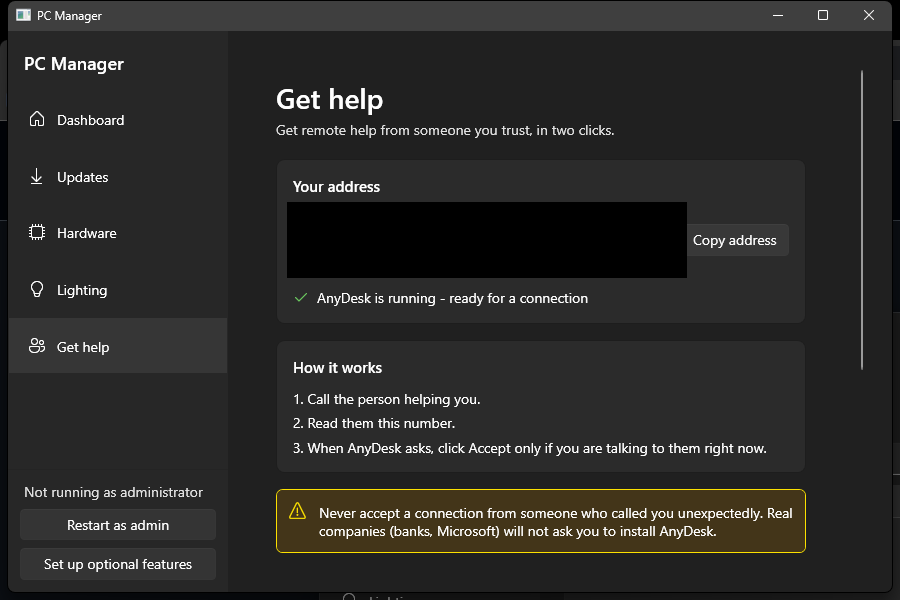
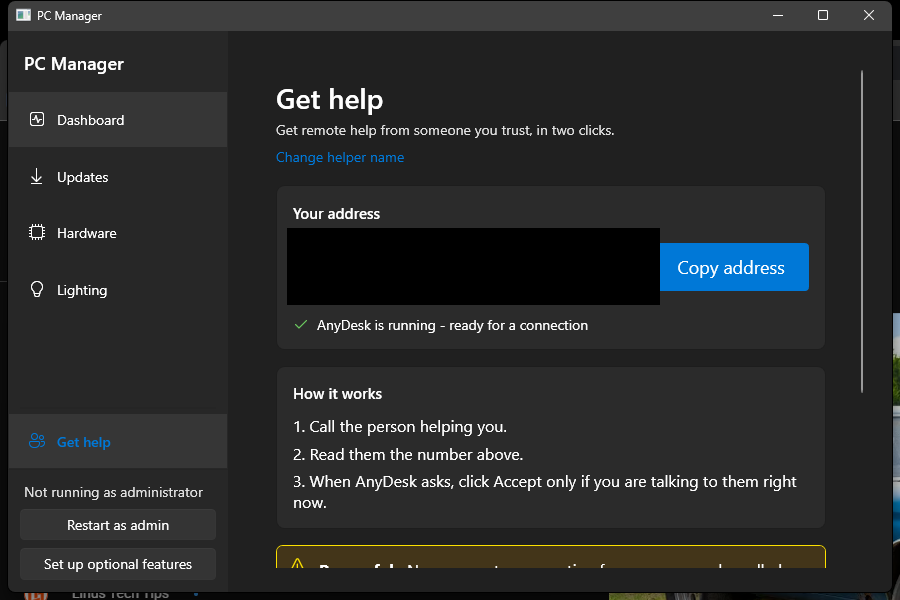
fix(remote-support): use a resolving accent brush for primary actions
AccentFillColorDefaultBrush/AccentTextFillColorPrimaryBrush do not resolve
under this app's built-in WPF Fluent theme (ThemeMode.System), so the "Copy
address" button, the pinned "Get help" nav item and the helper-name dialog's
OK button were silently falling back to plain gray instead of standing out
as the primary action - confirmed by pixel-sampling a live screenshot.
Switches to {x:Static SystemColors.HighlightBrushKey}, which reliably
resolves to the user's Windows accent color, and re-verifies live (see the
updated, redacted docs/screenshots/get-help.png).

diff --git a/src/PCManager.App/Features/RemoteSupport/RemoteSupportView.xaml b/src/PCManager.App/Features/RemoteSupport/RemoteSupportView.xaml
@@ -19,7 +19,7 @@
                            Visibility="{Binding HasHelperName, Converter={StaticResource BoolToVis}}"/>
                 <Button Content="Change helper name" Click="ChangeHelperNameButton_Click"
                         BorderThickness="0" Background="Transparent" Padding="0" Cursor="Hand"
-                        Foreground="{DynamicResource AccentTextFillColorPrimaryBrush}"/>
+                        Foreground="{DynamicResource {x:Static SystemColors.HighlightBrushKey}}"/>
             </StackPanel>
 
             <!-- State 1 / 3 (not installed, or an install/detection error): reuse the shared
@@ -74,7 +74,8 @@
                                            Visibility="{Binding AddressCopyFailed, Converter={StaticResource BoolToVis}}"/>
                                 <Button Content="Copy address" Command="{Binding CopyAddressCommand}"
                                         IsEnabled="{Binding HasAddress}"
-                                        Style="{DynamicResource AccentButtonStyle}"
+                                        Background="{DynamicResource {x:Static SystemColors.HighlightBrushKey}}"
+                                        Foreground="White" BorderThickness="0"
                                         Padding="24,12" FontSize="18"/>
                             </StackPanel>
                         </Grid>

diff --git a/src/PCManager.App/Shell/MainWindow.xaml b/src/PCManager.App/Shell/MainWindow.xaml
@@ -54,10 +54,10 @@
                                     </Grid.ColumnDefinitions>
                                     <TextBlock Grid.Column="0" Text="{Binding Glyph}" Style="{StaticResource Icon}"
                                                FontSize="16" Margin="4,0,12,0"
-                                               Foreground="{DynamicResource AccentTextFillColorPrimaryBrush}"/>
+                                               Foreground="{DynamicResource {x:Static SystemColors.HighlightBrushKey}}"/>
                                     <TextBlock Grid.Column="1" Text="{Binding Title}" VerticalAlignment="Center"
                                                FontWeight="SemiBold"
-                                               Foreground="{DynamicResource AccentTextFillColorPrimaryBrush}"/>
+                                               Foreground="{DynamicResource {x:Static SystemColors.HighlightBrushKey}}"/>
                                 </Grid>
                             </DataTemplate>
                         </ListBox.ItemTemplate>

diff --git a/src/PCManager.App/Features/RemoteSupport/HelperNameDialog.xaml b/src/PCManager.App/Features/RemoteSupport/HelperNameDialog.xaml
@@ -12,7 +12,8 @@
         <StackPanel Orientation="Horizontal" HorizontalAlignment="Right" Margin="0,20,0,0">
             <Button Content="Cancel" Click="Cancel_Click" Margin="0,0,8,0" IsCancel="True"/>
             <Button Content="OK" Click="Ok_Click" IsDefault="True"
-                    Style="{DynamicResource AccentButtonStyle}"/>
+                    Background="{DynamicResource {x:Static SystemColors.HighlightBrushKey}}"
+                    Foreground="White" BorderThickness="0" Padding="16,6"/>
         </StackPanel>
     </StackPanel>
 </Window>
